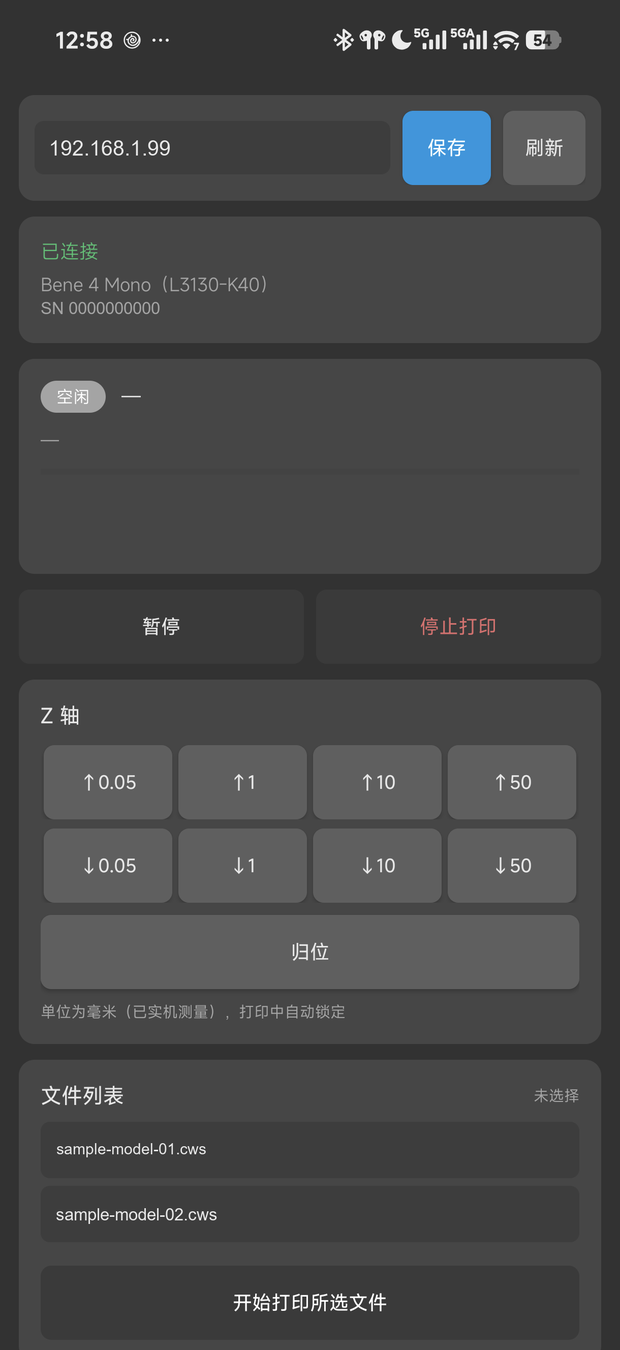
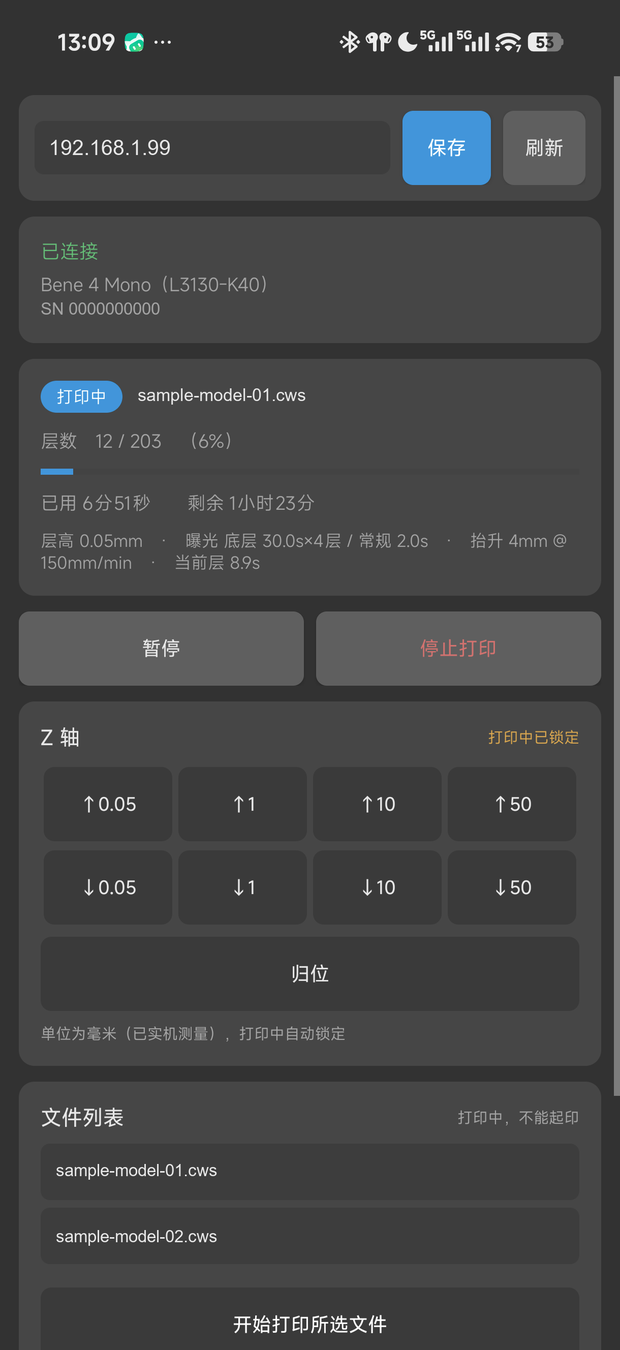
feat: 安卓端增加运行日志与打印完成通知（0.7.0）

diff --git a/android/src/com/rclam/novactl/MainActivity.java b/android/src/com/rclam/novactl/MainActivity.java
@@ -1,10 +1,19 @@
 package com.rclam.novactl;
 
+import android.Manifest;
 import android.app.Activity;
 import android.app.AlertDialog;
+import android.app.Notification;
+import android.app.NotificationChannel;
+import android.app.NotificationManager;
+import android.app.PendingIntent;
+import android.content.Context;
 import android.content.DialogInterface;
+import android.content.Intent;
 import android.content.SharedPreferences;
+import android.content.pm.PackageManager;
 import android.content.res.ColorStateList;
+import android.os.Build;
 import android.os.Bundle;
 import android.os.Handler;
 import android.os.Looper;
@@ -13,6 +22,7 @@ import android.widget.Button;
 import android.widget.EditText;
 import android.widget.LinearLayout;
 import android.widget.ProgressBar;
+import android.widget.ScrollView;
 import android.widget.TextView;
 import android.widget.Toast;
 
@@ -40,7 +50,7 @@ import java.util.concurrent.atomic.AtomicBoolean;
 public class MainActivity extends Activity {
 
     /** 与桌面版 NovaUploader 同代，便于两边对照。 */
-    private static final String APP_VERSION = "0.6.9";
+    private static final String APP_VERSION = "0.7.0";
     private static final int PORT = 8081;
     private static final int POLL_MS = 3000;
     private static final int TIMEOUT_MS = 5000;
@@ -58,9 +68,23 @@ public class MainActivity extends Activity {
     private TextView tvConn, tvDev, tvPill, tvJob, tvLayers, tvTime, tvParams;
     private TextView tvHistory, tvHistoryArrow, tvZHint, tvFileHint;
     private ProgressBar pb;
-    private Button btnPause, btnStop, btnHome, btnPrint;
+    private Button btnPause, btnStop, btnHome, btnPrint, btnNotify, btnLog;
     private LinearLayout llFiles, llHistoryHead;
     private final List<Button> zButtons = new ArrayList<Button>();
+
+    // ---- 日志与通知 ----
+    private static final int LOG_LIMIT = 300;
+    private static final String CHANNEL_ID = "nova_job";
+    private static final int NOTIFY_ID = 1001;
+    private static final int REQ_NOTIFY = 101;
+
+    private final List<String> logs = new ArrayList<String>();
+    private boolean notifyOn = true;
+    /** 只在状态真正变化时记日志，避免 3 秒一次的轮询把日志刷满。 */
+    private String lastConnLog = "";
+    private boolean lastPrinting = false;
+    private boolean lastPaused = false;
+    private String lastJobName = "";
 
     private final List<TextView> fileRowViews = new ArrayList<TextView>();
     private final List<String> fileRowNames = new ArrayList<String>();
@@ -91,6 +115,8 @@ public class MainActivity extends Activity {
         btnStop = (Button) findViewById(R.id.btnStop);
         btnHome = (Button) findViewById(R.id.btnHome);
         btnPrint = (Button) findViewById(R.id.btnPrint);
+        btnNotify = (Button) findViewById(R.id.btnNotify);
+        btnLog = (Button) findViewById(R.id.btnLog);
         llFiles = (LinearLayout) findViewById(R.id.llFiles);
         llHistoryHead = (LinearLayout) findViewById(R.id.llHistoryHead);
 
@@ -108,6 +134,10 @@ public class MainActivity extends Activity {
         SharedPreferences sp = getSharedPreferences("nova", MODE_PRIVATE);
         ip = sp.getString("ip", "");
         etIp.setText(ip);
+        notifyOn = sp.getBoolean("notify", true);
+        updateNotifyBtn();
+        addLog("应用启动 v" + APP_VERSION);
+        requestNotifyPermission();
 
         findViewById(R.id.btnSave).setOnClickListener(new View.OnClickListener() {
             @Override
@@ -121,6 +151,8 @@ public class MainActivity extends Activity {
                 getSharedPreferences("nova", MODE_PRIVATE).edit()
                         .putString("ip", ip).apply();
                 lastFileSig = "";
+                lastConnLog = "";
+                addLog("打印机地址改为 " + ip);
                 toast("已保存");
                 ui.removeCallbacks(pollTick);
                 ui.post(pollTick);
@@ -225,6 +257,27 @@ public class MainActivity extends Activity {
             }
         });
 
+        // 通知开关
+        btnNotify.setOnClickListener(new View.OnClickListener() {
+            @Override
+            public void onClick(View v) {
+                notifyOn = !notifyOn;
+                getSharedPreferences("nova", MODE_PRIVATE).edit()
+                        .putBoolean("notify", notifyOn).apply();
+                updateNotifyBtn();
+                addLog("通知" + (notifyOn ? "开启" : "关闭"));
+                if (notifyOn) requestNotifyPermission();
+            }
+        });
+
+        // 日志
+        btnLog.setOnClickListener(new View.OnClickListener() {
+            @Override
+            public void onClick(View v) {
+                showLog();
+            }
+        });
+
         // 历史折叠
         llHistoryHead.setOnClickListener(new View.OnClickListener() {
             @Override
@@ -244,6 +297,155 @@ public class MainActivity extends Activity {
         running = false;
         ui.removeCallbacks(pollTick);
         super.onDestroy();
+    }
+
+    // ---------------- 日志与通知 ----------------
+
+    private void addLog(String text) {
+        String flat = text.replace('\n', ' ').replace("  ", " ").trim();
+        String line = new SimpleDateFormat("HH:mm:ss", Locale.US).format(new Date()) + "  " + flat;
+        synchronized (logs) {
+            logs.add(line);
+            while (logs.size() > LOG_LIMIT) {
+                logs.remove(0);
+            }
+        }
+    }
+
+    private void clearLog() {
+        synchronized (logs) {
+            logs.clear();
+        }
+        addLog("日志已清空");
+    }
+
+    private void showLog() {
+        String body;
+        int count;
+        synchronized (logs) {
+            count = logs.size();
+            if (count == 0) {
+                body = "暂无日志";
+            } else {
+                StringBuilder sb = new StringBuilder();
+                for (int i = count - 1; i >= 0; i--) {
+                    sb.append(logs.get(i)).append('\n');
+                }
+                body = sb.toString();
+            }
+        }
+        TextView tv = new TextView(this);
+        tv.setText(body);
+        tv.setTextSize(11);
+        tv.setTextColor(colorOf(R.color.text_dim));
+        tv.setTypeface(android.graphics.Typeface.MONOSPACE);
+        tv.setTextIsSelectable(true);
+        tv.setPadding(dp(12), dp(10), dp(12), dp(10));
+
+        ScrollView sv = new ScrollView(this);
+        sv.addView(tv, new LinearLayout.LayoutParams(
+                LinearLayout.LayoutParams.MATCH_PARENT,
+                LinearLayout.LayoutParams.WRAP_CONTENT));
+        int lines = Math.min(count, 16);
+        sv.setLayoutParams(new LinearLayout.LayoutParams(
+                LinearLayout.LayoutParams.MATCH_PARENT, dp(20 * lines + 26)));
+
+        new AlertDialog.Builder(this)
+                .setTitle("运行日志（" + count + " 条）")
+                .setView(sv)
+                .setPositiveButton("关闭", null)
+                .setNeutralButton("清空", new DialogInterface.OnClickListener() {
+                    @Override
+                    public void onClick(DialogInterface d, int w) {
+                        clearLog();
+                    }
+                })
+                .show();
+    }
+
+    private void updateNotifyBtn() {
+        btnNotify.setText(notifyOn ? R.string.notify_on : R.string.notify_off);
+        btnNotify.setTextColor(colorOf(notifyOn ? R.color.ok : R.color.text_dim));
+    }
+
+    private void requestNotifyPermission() {
+        if (Build.VERSION.SDK_INT < 33) return;
+        if (checkSelfPermission(Manifest.permission.POST_NOTIFICATIONS)
+                == PackageManager.PERMISSION_GRANTED) return;
+        requestPermissions(new String[]{Manifest.permission.POST_NOTIFICATIONS}, REQ_NOTIFY);
+    }
+
+    @Override
+    public void onRequestPermissionsResult(int code, String[] perms, int[] granted) {
+        super.onRequestPermissionsResult(code, perms, granted);
+        if (code == REQ_NOTIFY) {
+            boolean ok = granted.length > 0 && granted[0] == PackageManager.PERMISSION_GRANTED;
+            addLog(ok ? "通知权限已授予" : "通知权限被拒绝，打印完成时不会提醒");
+        }
+    }
+
+    private void ensureChannel() {
+        if (Build.VERSION.SDK_INT < 26) return;
+        NotificationManager nm = (NotificationManager) getSystemService(Context.NOTIFICATION_SERVICE);
+        if (nm.getNotificationChannel(CHANNEL_ID) == null) {
+            NotificationChannel ch = new NotificationChannel(CHANNEL_ID, "打印任务",
+                    NotificationManager.IMPORTANCE_DEFAULT);
+            ch.setDescription("打印完成提醒");
+            nm.createNotificationChannel(ch);
+        }
+    }
+
+    private void notifyDone(String job) {
+        if (!notifyOn) {
+            addLog("通知已关闭，跳过打印完成提醒");
+            return;
+        }
+        if (Build.VERSION.SDK_INT >= 33
+                && checkSelfPermission(Manifest.permission.POST_NOTIFICATIONS)
+                != PackageManager.PERMISSION_GRANTED) {
+            addLog("缺少通知权限，未发送提醒");
+            return;
+        }
+        try {
+            ensureChannel();
+            int pflags = Build.VERSION.SDK_INT >= 23 ? PendingIntent.FLAG_IMMUTABLE : 0;
+            PendingIntent pi = PendingIntent.getActivity(this, 0,
+                    new Intent(this, MainActivity.class), pflags);
+            Notification.Builder b = Build.VERSION.SDK_INT >= 26
+                    ? new Notification.Builder(this, CHANNEL_ID)
+                    : new Notification.Builder(this);
+            b.setSmallIcon(android.R.drawable.stat_sys_download_done)
+                    .setContentTitle("打印完成")
+                    .setContentText(job.length() > 0 ? job : "任务已结束")
+                    .setAutoCancel(true)
+                    .setContentIntent(pi);
+            NotificationManager nm = (NotificationManager) getSystemService(Context.NOTIFICATION_SERVICE);
+            nm.notify(NOTIFY_ID, b.build());
+            addLog("已发送通知：打印完成 " + job);
+        } catch (Exception e) {
+            addLog("通知发送失败：" + shortErr(e));
+        }
+    }
+
+    /** 把状态变化写进日志，并在打印结束时发通知。轮询每 3 秒一次，所以必须去重。 */
+    private void trackEvents(Ui u) {
+        if (!u.conn.equals(lastConnLog)) {
+            lastConnLog = u.conn;
+            addLog("已连接".equals(u.conn) ? "已连接：" + u.dev : u.conn);
+        }
+        if (u.printing && !lastPrinting) {
+            lastJobName = u.job;
+            addLog("开始打印：" + u.job);
+        } else if (u.printing && u.paused && !lastPaused) {
+            addLog("已暂停打印：" + lastJobName);
+        } else if (u.printing && !u.paused && lastPaused) {
+            addLog("已继续打印：" + lastJobName);
+        } else if (!u.printing && lastPrinting) {
+            addLog("打印结束：" + lastJobName);
+            notifyDone(lastJobName);
+        }
+        lastPrinting = u.printing;
+        lastPaused = u.paused;
     }
 
     // ---------------- 轮询 ----------------
@@ -476,6 +678,8 @@ public class MainActivity extends Activity {
         paused = u.paused;
         jobId = u.jobId;
 
+        trackEvents(u);
+
         if (!u.fileSig.equals(lastFileSig)) {
             lastFileSig = u.fileSig;
             rebuildFiles(u.files);
@@ -584,6 +788,7 @@ public class MainActivity extends Activity {
                     msg = "失败：" + shortErr(e);
                 }
                 final String shown = label + " → " + summarize(msg);
+                addLog(shown);
                 ui.post(new Runnable() {
                     @Override
                     public void run() {

diff --git a/pc/NovaUploader.py b/pc/NovaUploader.py
@@ -49,7 +49,7 @@ CONFIG_PATH_LEGACY = os.path.join(APP_DIR, "printers.json")
 HISTORY_PATH = os.path.join(DATA_DIR, "history.json")
 HISTORY_LIMIT = 300
 
-APP_VERSION = "0.6.9"
+APP_VERSION = "0.7.0"
 
 # NovaMaker 的图标（64x64 PNG，内嵌以免打包后还要带外部文件）
 ICON_PNG_B64 = (

diff --git a/README.md b/README.md
@@ -2,7 +2,7 @@
 
 **简体中文** | [English](README.en.md)
 
-![version](https://img.shields.io/badge/version-0.6.9-blue)
+![version](https://img.shields.io/badge/version-0.7.0-blue)
 ![platform](https://img.shields.io/badge/platform-Windows-blue)
 ![python](https://img.shields.io/badge/python-3.9%2B-3776AB)
 ![license](https://img.shields.io/badge/license-MIT-green)
@@ -128,8 +128,10 @@ exe 与 apk 均走 Release，不入库；`printers.json` / `history.json` 含打
 - **Z 轴**：四档升降 + 归位，打印中自动锁定
 - **文件列表**：点选打印机上的文件直接起印（不做上传）
 - **打印历史**：默认折叠，展开显示打印机上最近 10 条任务
+- **运行日志**：记录连接状态变化、开始/暂停/继续/结束、Z 轴与起印等动作结果，保留最近 300 条，可清空。只存内存不落盘
+- **打印完成通知**：任务结束时发系统通知，可随手关闭；安卓 13+ 会请求通知权限
 
-已在 Nova3D L3130-K40（固件 6.0.6）上实机验证：状态刷新、暂停/继续、停止、Z 轴四档升降与归位、从文件列表起印均正常。
+已在 Nova3D L3130-K40（固件 6.0.6）上实机验证：状态刷新、暂停/继续、停止、Z 轴四档升降与归位、从文件列表起印、运行日志、打印完成通知均正常。
 
 构建需要 JDK 17、Android build-tools 34 与 platform 34，不使用 Gradle：
 
@@ -137,7 +139,7 @@ exe 与 apk 均走 Release，不入库；`printers.json` / `history.json` 含打
 powershell -ExecutionPolicy Bypass -File android\build.ps1
 ```
 
-工具链默认放在 `D:\AndroidDev`，可用环境变量 `ANDROID_TOOLCHAIN` 指向其他位置。产物为 `android\NovaCtl.apk`（约 49 KB）。
+工具链默认放在 `D:\AndroidDev`，可用环境变量 `ANDROID_TOOLCHAIN` 指向其他位置。产物为 `android\NovaCtl.apk`（约 53 KB）。
 
 安装时允许「未知来源」即可。签名密钥 `novactl.keystore` 已入库，目的是保证后续版本能覆盖安装、不丢数据；若要公开发布，建议换成自己的密钥并妥善保管。
 

diff --git a/README.en.md b/README.en.md
@@ -2,7 +2,7 @@
 
 [简体中文](README.md) | **English**
 
-![version](https://img.shields.io/badge/version-0.6.9-blue)
+![version](https://img.shields.io/badge/version-0.7.0-blue)
 ![platform](https://img.shields.io/badge/platform-Windows-blue)
 ![python](https://img.shields.io/badge/python-3.9%2B-3776AB)
 ![license](https://img.shields.io/badge/license-MIT-green)
@@ -128,8 +128,10 @@ The phone talks straight to the printer — no PC in the middle, no vendor cloud
 - **Z axis** — four jog steps plus home, locked automatically while printing
 - **File list** — pick a file already on the printer and start it (no upload)
 - **Print history** — collapsed by default; expands to the printer's last 10 jobs
+- **Runtime log** — connection changes, start / pause / resume / finish, Z moves and print actions. Last 300 entries, in memory only, clearable
+- **Finish notification** — system notification when a job ends, with a toggle; asks for permission on Android 13+
 
-Verified on hardware (Nova3D L3130-K40, firmware 6.0.6): live status, pause / resume, stop, the four Z jog steps plus home, and starting a print from the file list.
+Verified on hardware (Nova3D L3130-K40, firmware 6.0.6): live status, pause / resume, stop, the four Z jog steps plus home, starting a print from the file list, the runtime log, and the finish notification.
 
 Building needs JDK 17, Android build-tools 34 and platform 34. No Gradle:
 
@@ -137,7 +139,7 @@ Building needs JDK 17, Android build-tools 34 and platform 34. No Gradle:
 powershell -ExecutionPolicy Bypass -File android\build.ps1
 ```
 
-The toolchain defaults to `D:\AndroidDev`; set `ANDROID_TOOLCHAIN` to point elsewhere. Output is `android\NovaCtl.apk` (about 49 KB).
+The toolchain defaults to `D:\AndroidDev`; set `ANDROID_TOOLCHAIN` to point elsewhere. Output is `android\NovaCtl.apk` (about 53 KB).
 
 On the phone, allow "unknown sources" and install. The signing key `novactl.keystore` is committed so later builds upgrade in place without losing data; if you plan to publish the app, swap it for your own key and keep it safe.
 
